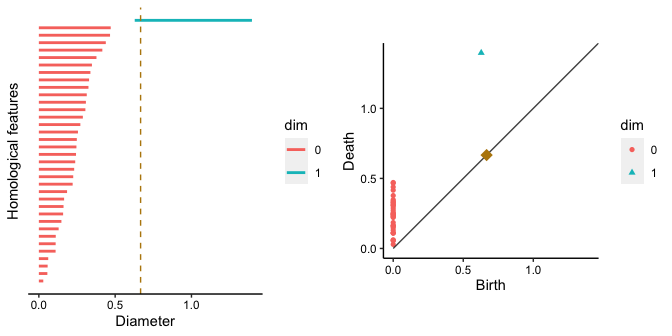
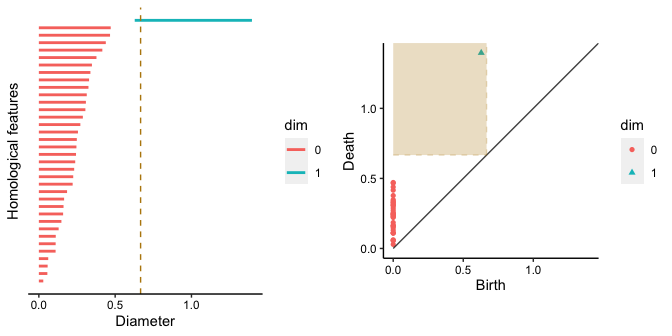
doc(readme): illustrate use of fundamental box

Changed region(s): [[0.5625, 0.119, 0.75, 0.4762]]

diff --git a/README.md b/README.md
@@ -124,12 +124,13 @@ gridExtra::grid.arrange(
 We can visualize the persistence data using a barcode (left) and a flat
 persistence diagram (right). In the barcode plot, the dashed line
 indicates the cutoff at the proximity `prox` (= 0.6666667); in the
-persistence diagram plot, the diamond point marks this cutoff.
+persistence diagram plot, the fundamental box contains the features that
+are detectable at this cutoff.
 
 ``` r
 # visualize the persistence data, indicating cutoffs at this proximity
 p_bc <- ggplot(ph,
-       aes(start = birth, end = death, colour = dim)) +
+               aes(start = birth, end = death, colour = dim)) +
   theme_barcode() +
   geom_barcode(size = 1) +
   labs(x = "Diameter", y = "Homological features") +
@@ -142,8 +143,9 @@ p_pd <- ggplot(ph) +
   geom_diagonal() +
   labs(x = "Birth", y = "Death") +
   lims(x = c(0, max_prox), y = c(0, max_prox)) +
-  geom_point(data = data.frame(x = prox), aes(x, x),
-             colour = "darkgoldenrod", shape = "diamond", size = 4)
+  geom_fundamental_box(t = prox,
+                       color = "darkgoldenrod", fill = "darkgoldenrod",
+                       linetype = "dashed")
 # combine the plots
 gridExtra::grid.arrange(
   p_bc, p_pd,
